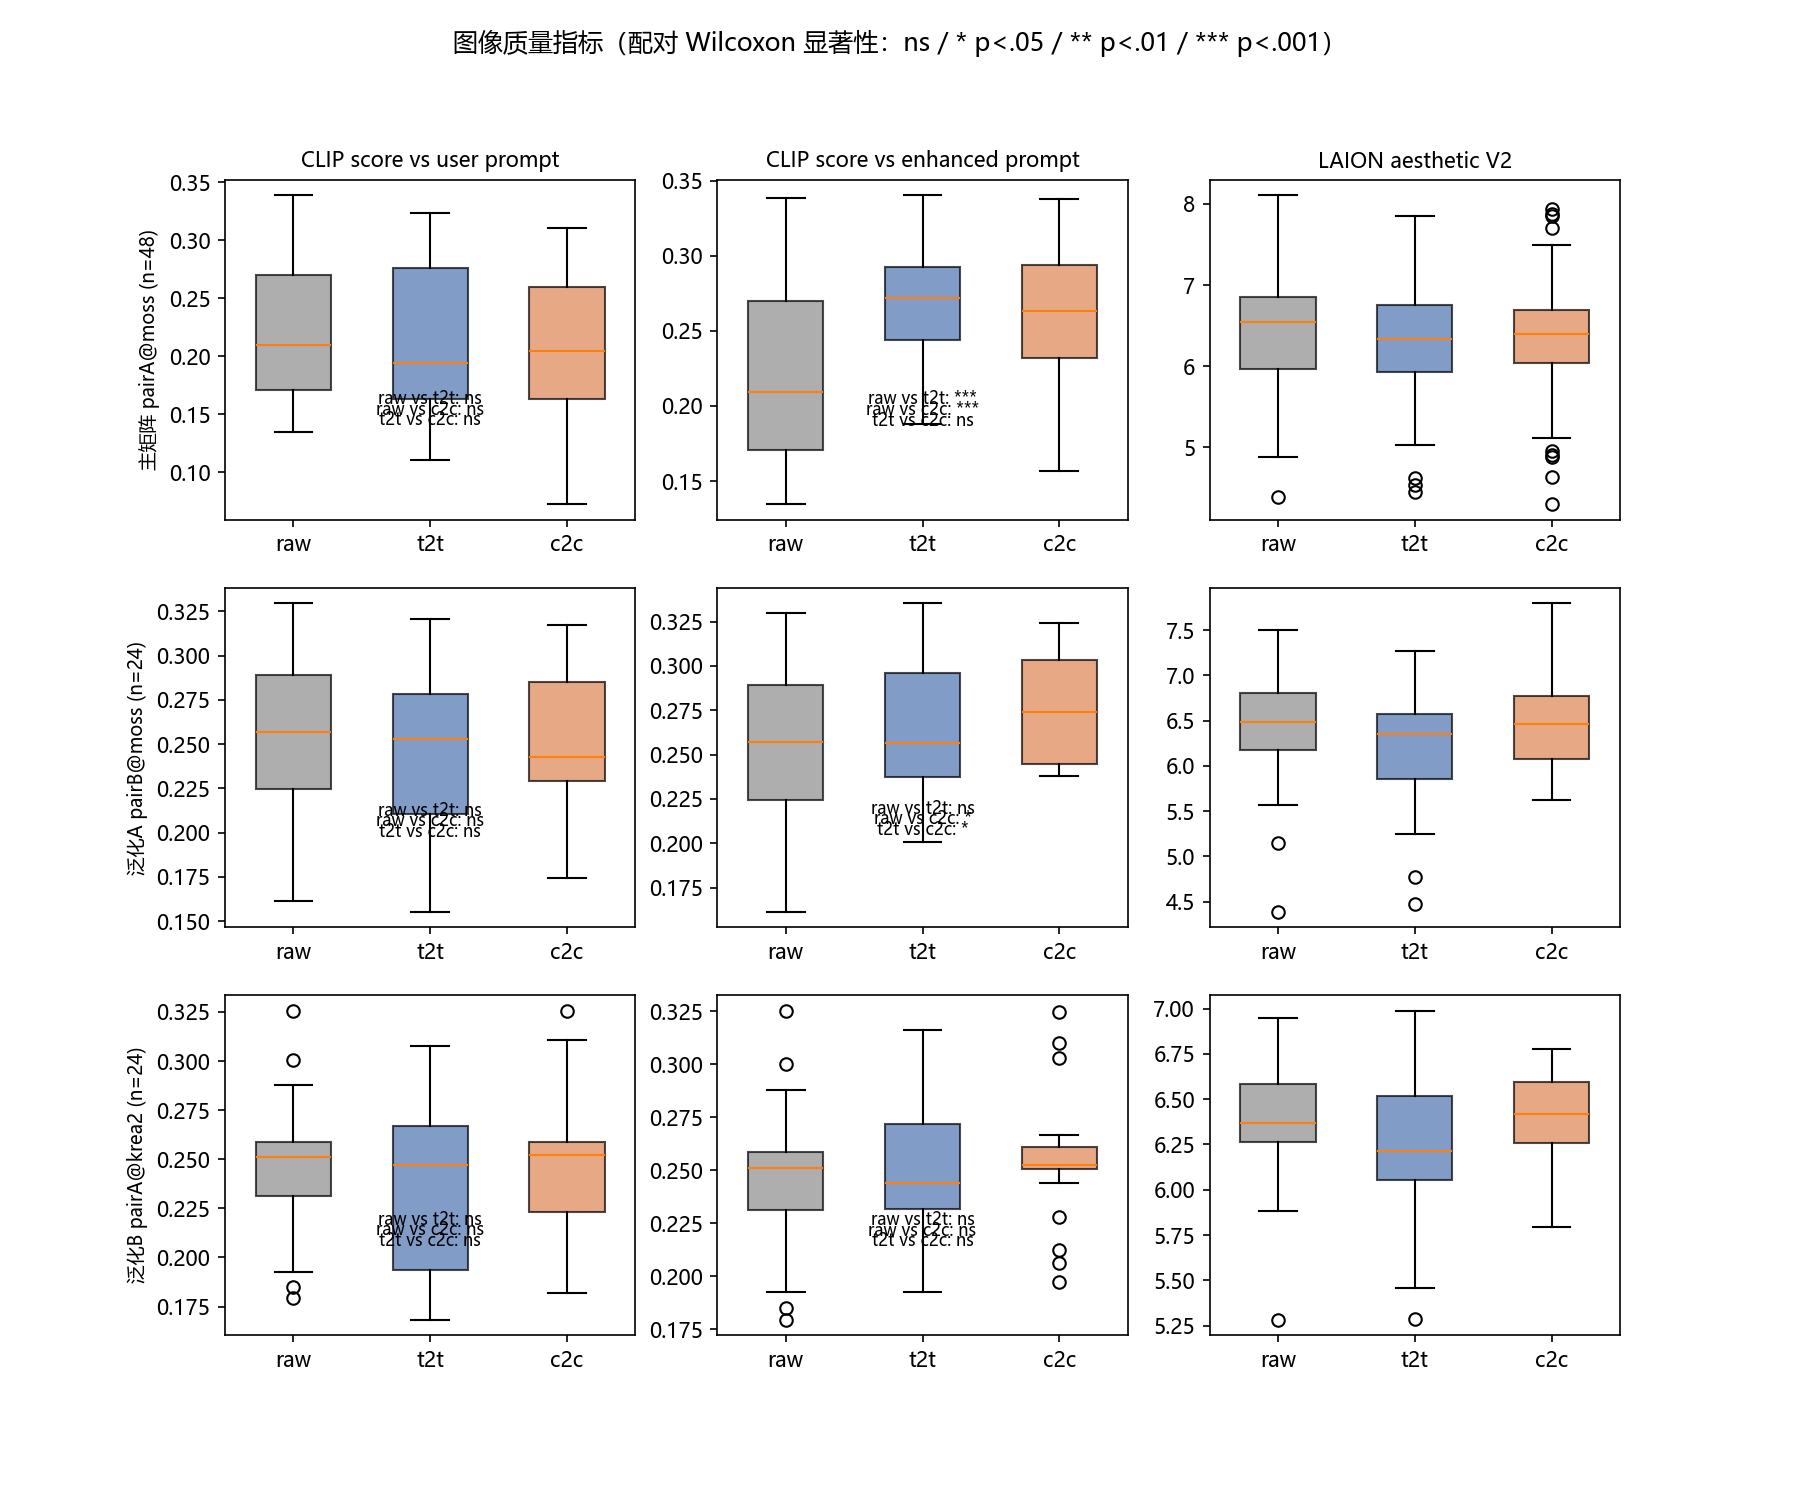
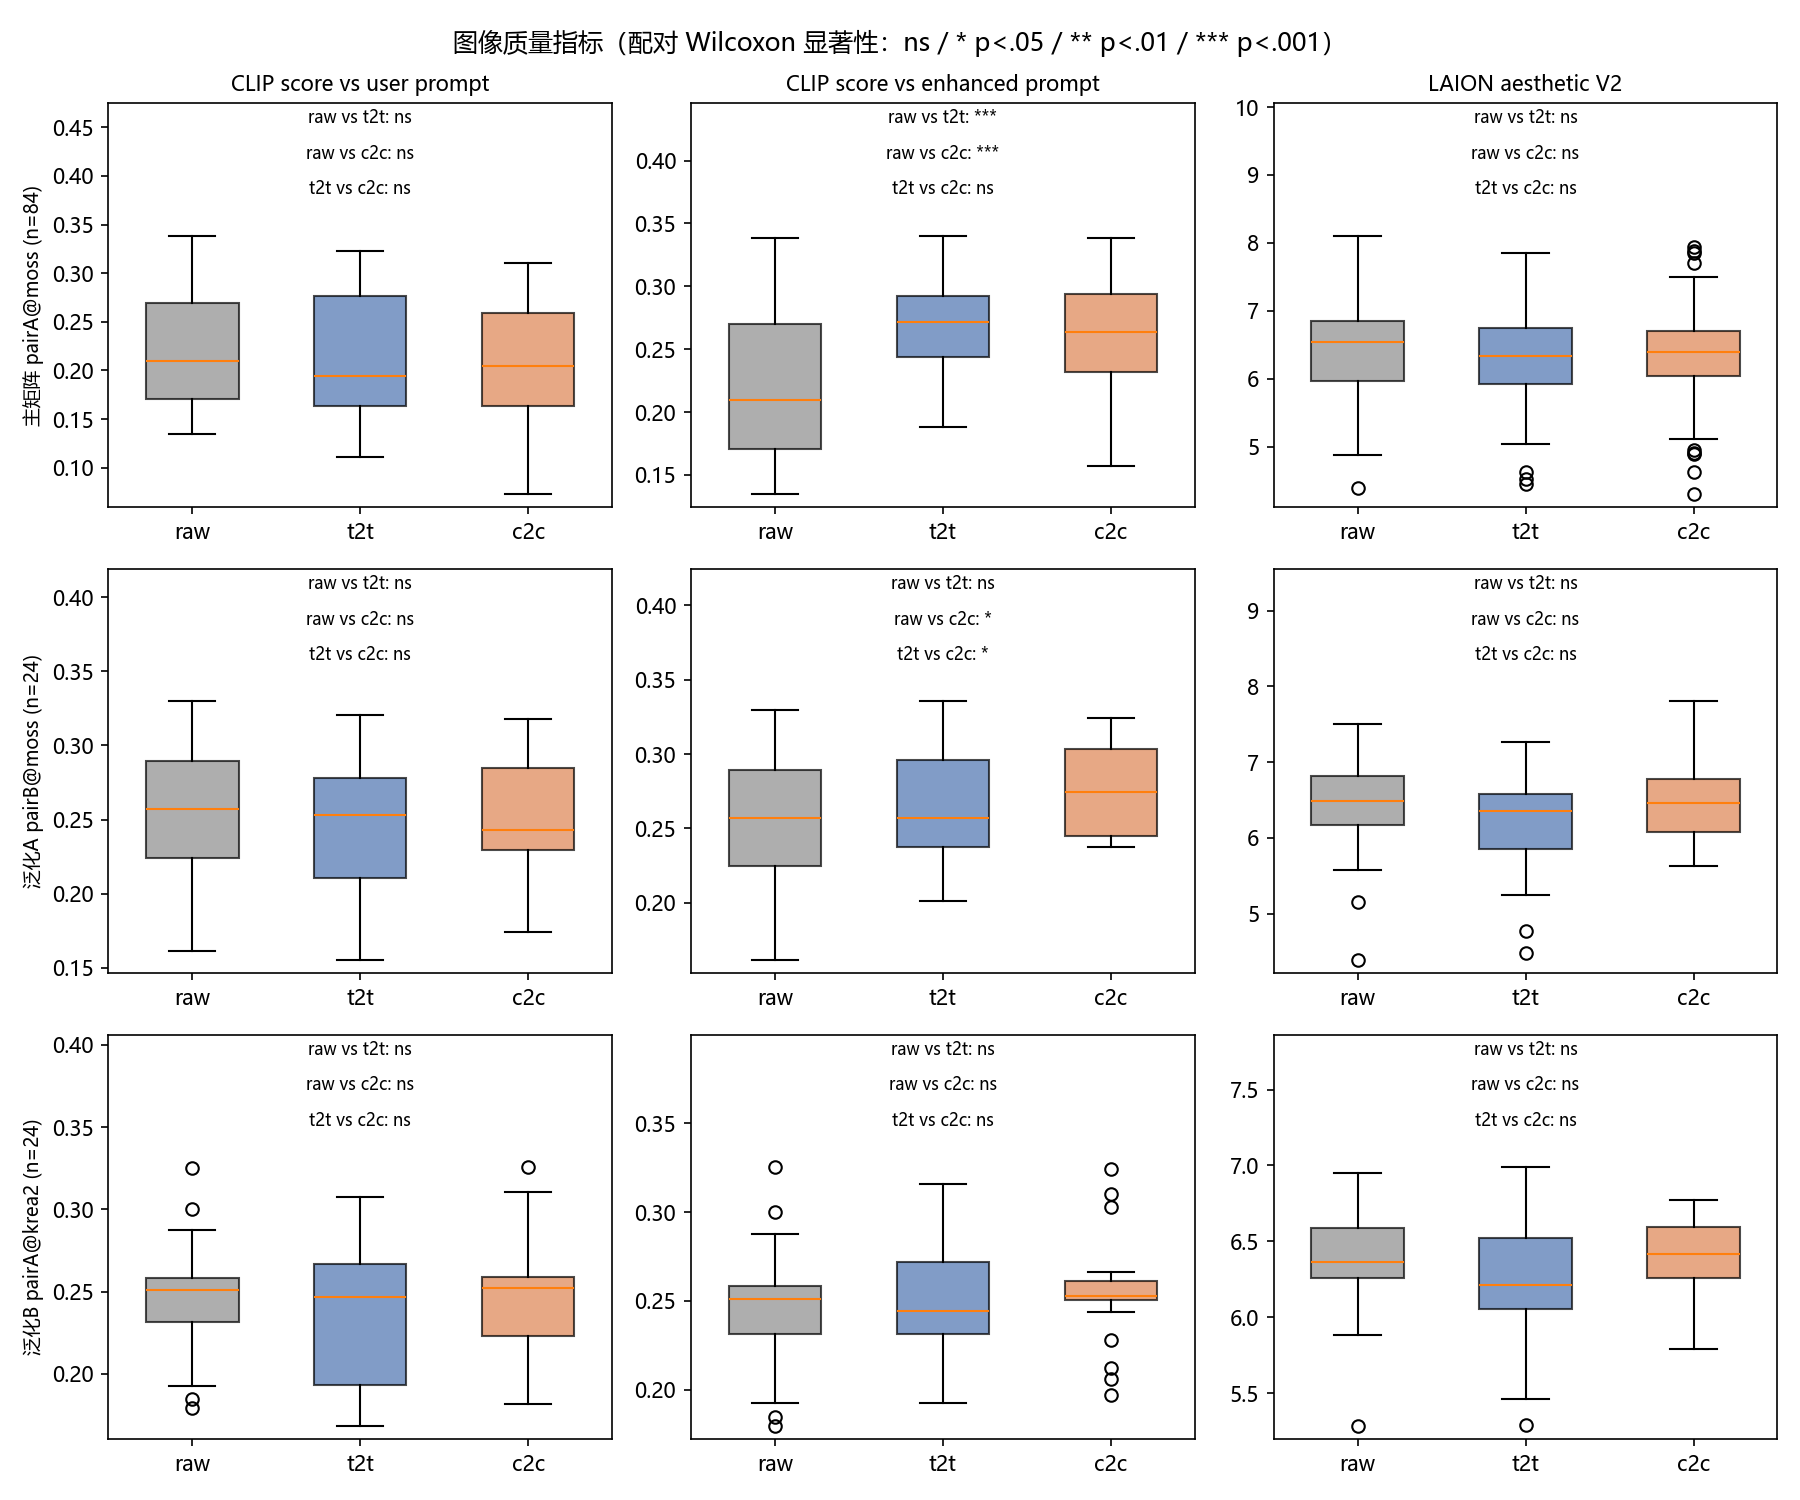
fig_quality: fix n=48->n=84 stale matrix label; move significance annotations out of boxplots; fix votes_summary CSV fieldnames bug

diff --git a/t2i/eval/analyze_votes.py b/t2i/eval/analyze_votes.py
@@ -75,7 +75,7 @@ def main():
     paths = [p for p in paths if os.path.exists(p)]
     assert paths, "no votes files found"
     out_dir = args.out_dir or os.path.join(
-        os.path.dirname(os.path.dirname(os.path.abspath(__file__))), "results", "metrics")
+        r"C:\Yet\Playground", "results", "metrics")
     os.makedirs(out_dir, exist_ok=True)
 
     rows = load_votes(paths)
@@ -111,15 +111,16 @@ def main():
             if pairs:
                 kappas.append(cohens_kappa(pairs))
         mk = (sum(kappas) / len(kappas)) if kappas else float("nan")
-        out_rows.append({
-            "comparison": comp, "q": q, "n": len(g),
-            f"{a}_wins": na, f"{b}_wins": nb, "tie": nt,
-            "winrate_excl_tie": round(wr_excl, 4),
-            "winrate_tie_half": round(wr_half, 4),
-            "binomial_p": round(float(p), 6),
-            "mean_kappa": "" if mk != mk else round(mk, 4),
-            "n_evaluators": len(evaluators),
-        })
+        row = {"comparison": comp, "q": q, "n": len(g),
+               "raw_wins": 0, "t2t_wins": 0, "c2c_wins": 0, "tie": nt,
+               "winrate_excl_tie": round(wr_excl, 4),
+               "winrate_tie_half": round(wr_half, 4),
+               "binomial_p": round(float(p), 6),
+               "mean_kappa": "" if mk != mk else round(mk, 4),
+               "n_evaluators": len(evaluators)}
+        row[f"{a}_wins"] = na
+        row[f"{b}_wins"] = nb
+        out_rows.append(row)
         lines.append(
             f"| {comp} | {q} | {len(g)} | {na} | {nb} | {nt} | "
             f"{wr_excl:.3f} | {wr_half:.3f} | {p:.4f} | "
@@ -144,8 +145,12 @@ def main():
         lines.append(f"| {comp} | {q} | {who} | {na} | {nb} | {nt} |")
 
     out_csv = os.path.join(out_dir, "votes_summary.csv")
+    fieldnames = ["comparison", "q", "n",
+                  "raw_wins", "t2t_wins", "c2c_wins", "tie",
+                  "winrate_excl_tie", "winrate_tie_half",
+                  "binomial_p", "mean_kappa", "n_evaluators"]
     with open(out_csv, "w", newline="", encoding="utf-8-sig") as f:
-        w = csv.DictWriter(f, fieldnames=list(out_rows[0].keys()))
+        w = csv.DictWriter(f, fieldnames=fieldnames)
         w.writeheader()
         w.writerows(out_rows)
     out_md = os.path.join(out_dir, "votes_summary.md")

diff --git a/t2i/eval/make_figs.py b/t2i/eval/make_figs.py
@@ -23,13 +23,13 @@ import numpy as np
 plt.rcParams["font.sans-serif"] = ["Microsoft YaHei", "SimHei", "Arial"]
 plt.rcParams["axes.unicode_minus"] = False
 
-PLAYGROUND = os.environ.get("PLAYGROUND", os.path.dirname(os.path.dirname(os.path.abspath(__file__))))
+PLAYGROUND = r"C:\Yet\Playground"
 METRICS = os.path.join(PLAYGROUND, "results", "metrics")
 FIGS = os.path.join(PLAYGROUND, "report", "figures")
-COMFY_OUT = os.environ.get("COMFY_OUT", os.path.join(PLAYGROUND, "results", "exp_v2"))
+COMFY_OUT = r"C:\cc\ComfyUI_windows_portable\ComfyUI\output\exp_v2"
 
 MATRIX_LABEL = {
-    ("qwen3_0.6b+qwen2.5_0.5b", "moss"): "主矩阵 pairA@moss (n=48)",
+    ("qwen3_0.6b+qwen2.5_0.5b", "moss"): "主矩阵 pairA@moss (n=84)",
     ("qwen3_0.6b+qwen3_4b_base", "moss"): "泛化A pairB@moss (n=24)",
     ("qwen3_0.6b+qwen2.5_0.5b", "krea2"): "泛化B pairA@krea2 (n=24)",
 }
@@ -121,13 +121,15 @@ def fig_quality(img_rows, stat_rows):
             for patch, color in zip(bp["boxes"], ["#8c8c8c", "#4c72b0", "#dd8452"]):
                 patch.set_facecolor(color)
                 patch.set_alpha(0.7)
+            # 顶部留白放置三行显著性注释，避免压在箱线上
+            lo, hi = ax.get_ylim()
+            ax.set_ylim(lo, hi + (hi - lo) * 0.42)
             for k, (a, b) in enumerate([("raw", "t2t"), ("raw", "c2c"), ("t2t", "c2c")]):
                 r = stat.get((matrix, m, a, b))
                 if r:
-                    y = max(max(vals[x]) for x in (a, b) if vals[x]) if any(vals[x] for x in (a, b)) else 1
-                    y = ax.get_ylim()[1] * (0.97 - 0.09 * k)
-                    ax.text(0.5, y, f"{a} vs {b}: {stars(float(r['wilcoxon_p']))}",
-                            transform=ax.transAxes, ha="center", fontsize=8)
+                    ax.text(0.5, 0.985 - 0.088 * k,
+                            f"{a} vs {b}: {stars(float(r['wilcoxon_p']))}",
+                            transform=ax.transAxes, ha="center", va="top", fontsize=8)
             if i == 0:
                 ax.set_title(METRIC_LABEL[m], fontsize=10)
             if j == 0:
